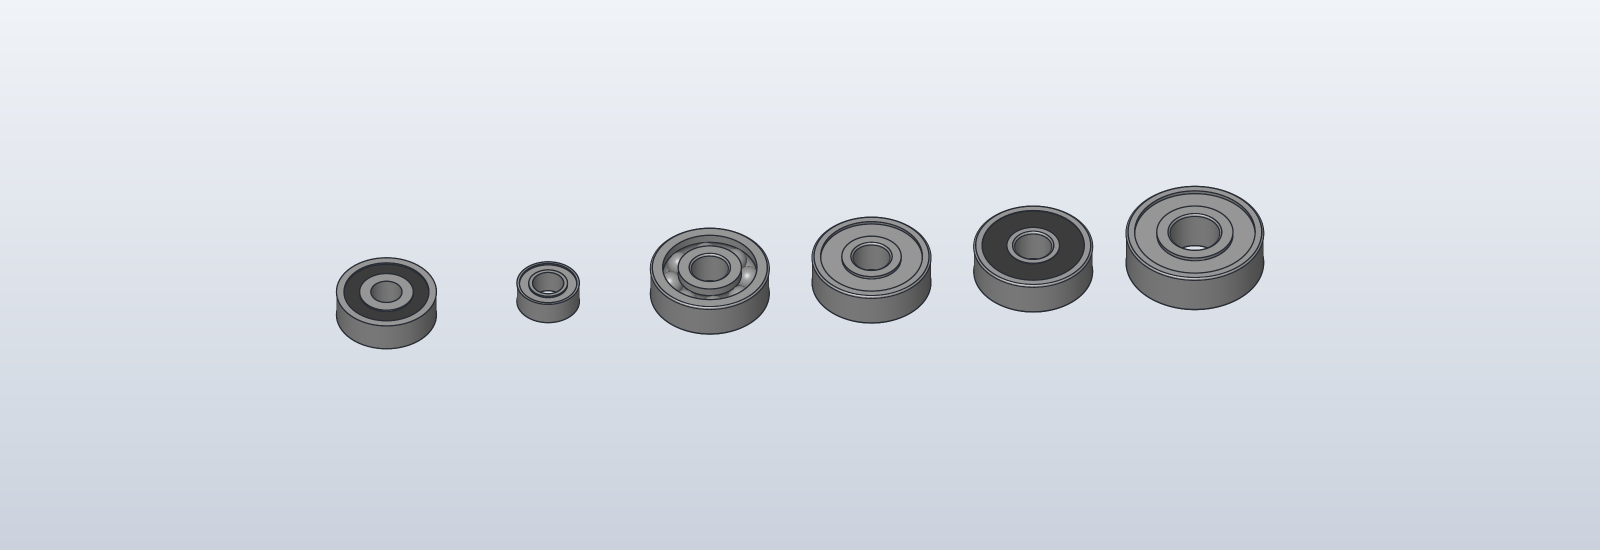
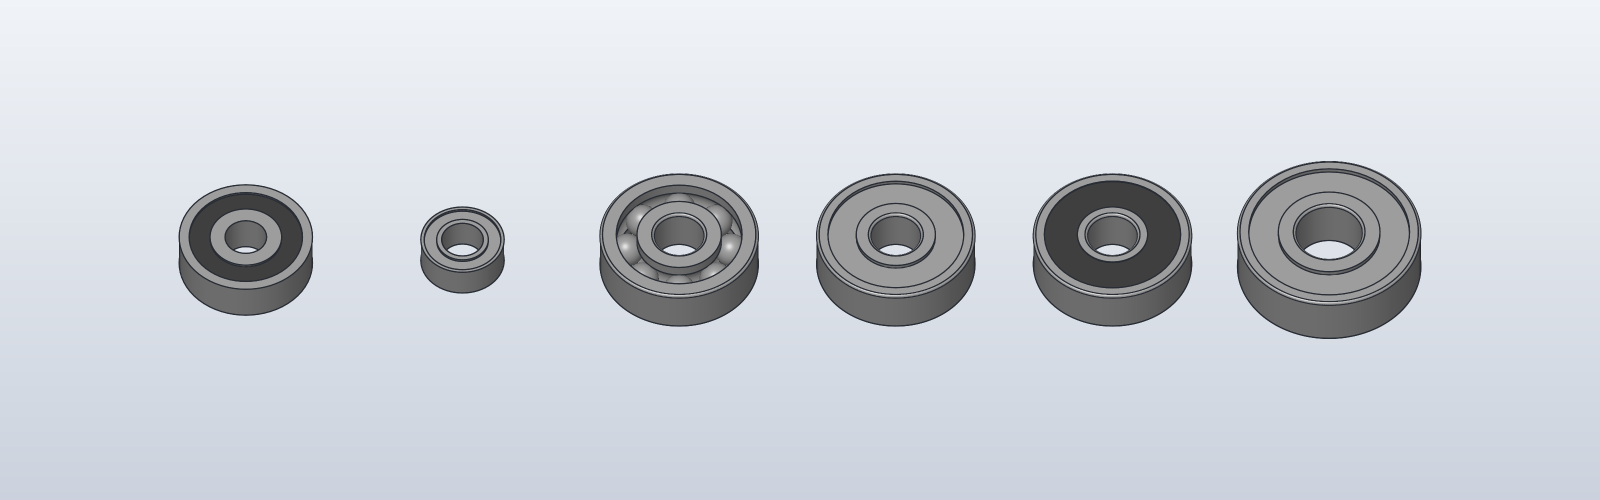
docs(bearings): list supported products and refresh preview

Changed region(s): [[0.0938, 0.3, 0.9062, 0.69]]

diff --git a/tools/catalog-tool/src/main.rs b/tools/catalog-tool/src/main.rs
@@ -1,4 +1,4 @@
-//! Update only catalog-owned manifest fields; workflow fields stay hand-authored.
+//! Keep catalog-owned choices and documentation tables in sync; workflow fields stay hand-authored.
 
 use std::{env, fs, path::Path, process::ExitCode};
 
@@ -116,6 +116,11 @@ fn run() -> Result<(), String> {
             d.width
         ));
     }
+    update_table(
+        &root.join("plugins/techsquid-bearings/README.md"),
+        &bearings_table,
+        write,
+    )?;
     let mut wheels_table = String::from("| Part | OpenBuilds SKU | OD × bare width (mm) | Bearings | Internal shim, OD × bore × width (mm) |\n|---|---|---|---|---|\n");
     for wheel in wheels::ALL {
         let (diameter, width) = wheel.dimensions();

diff --git a/DEVELOPMENT.md b/DEVELOPMENT.md
@@ -73,8 +73,9 @@ measurements and assembly members. These descriptors remain the single source fo
 insertion and reuse; packages do not export a `catalog` entry or query handler.
 See the [internal contract](docs/catalog-contract.md) and [shared library](docs/parts-library.md).
 
-`tools/catalog-tool` generates catalog-owned insertion choices and reference tables
-from the same data. Run `cargo run -p catalog-tool -- --write` after changing them;
+`tools/catalog-tool` generates catalog-owned insertion choices and documentation
+tables from the same data, including the Bearings README and reference table.
+Run `cargo run -p catalog-tool -- --write` after changing them;
 `./build.sh` runs `--check` and refuses drift. Workflow controls remain hand-authored.
 The package and guest both use that manifest. The generator must not add API entries.
 
@@ -245,7 +246,7 @@ solidcraft-cli snapshot --in examples/plugin-showcase.json --out examples/plugin
 ```
 
 ```sh
-solidcraft-cli snapshot --in examples/bearings.json --out plugins/techsquid-bearings/bearings.png --width 1600 --height 550 --camera '{"target":[1.5,0,0],"yaw":0.1,"pitch":0.75,"distance":110}' --no-grid --no-axes --quality fine
+solidcraft-cli snapshot --in examples/bearings.json --out plugins/techsquid-bearings/bearings.png --width 1600 --height 500 --camera '{"target":[1.5,0,0],"yaw":0,"pitch":0.9,"distance":75}' --no-grid --no-axes --quality fine
 solidcraft-cli snapshot --in examples/v-wheels.json --out plugins/techsquid-v-wheels/v-wheels.png --width 1600 --height 600 --camera '{"target":[-2,0,0],"yaw":0.05,"pitch":0.75,"distance":80}' --no-grid --no-axes --quality fine
 ```
 

diff --git a/plugins/techsquid-bearings/README.md b/plugins/techsquid-bearings/README.md
@@ -2,7 +2,31 @@
 
 Place fixed OpenBuilds and MISUMI bearing products in [SolidCraft](https://github.com/tangency-labs/solidcraft), with separate steel rings and recessed rubber seals or metal shields. Choose a catalog designation instead of entering arbitrary dimensions.
 
-![Six sourced bearings with open, sealed and shielded variants](bearings.png)
+## Supported bearings
+
+Choose a designation from this table in **Bearings > make-bearing**. Dimensions
+are bore × outside diameter × width, in millimetres. Part numbers are the
+supplier's catalog numbers.
+
+<!-- catalog-table:start -->
+
+| Designation | Supplier | Part number | Bore × OD × width (mm) | Closure |
+|---|---|---|---|---|
+| 625 2RS | OpenBuilds | 30 | 5 × 16 × 5 | Rubber seals, both sides |
+| 105ZZ | OpenBuilds | 800 | 5 × 10 × 4 | Metal shields, both sides |
+| B626 | MISUMI | B626 | 6 × 19 × 6 | Open, visible balls |
+| B626ZZ | MISUMI | B626ZZ | 6 × 19 × 6 | Metal shields, both sides |
+| B626DDU | MISUMI | B626DDU | 6 × 19 × 6 | Rubber seals, both sides |
+| B608ZZ | MISUMI | B608ZZ | 8 × 22 × 7 | Metal shields, both sides |
+
+<!-- catalog-table:end -->
+
+![Supported bearings, left to right: OpenBuilds 625 2RS and 105ZZ; MISUMI B626, B626ZZ, B626DDU and B608ZZ](bearings.png)
+
+The preview follows the table order, left to right, at the same scale. Dark faces
+are rubber seals, gray faces are metal shields, and the open B626 shows its balls
+and raceways. See the [reference](REFERENCE.md#geometry-and-sources) for sources
+and modeling limits.
 
 ## Install
 
